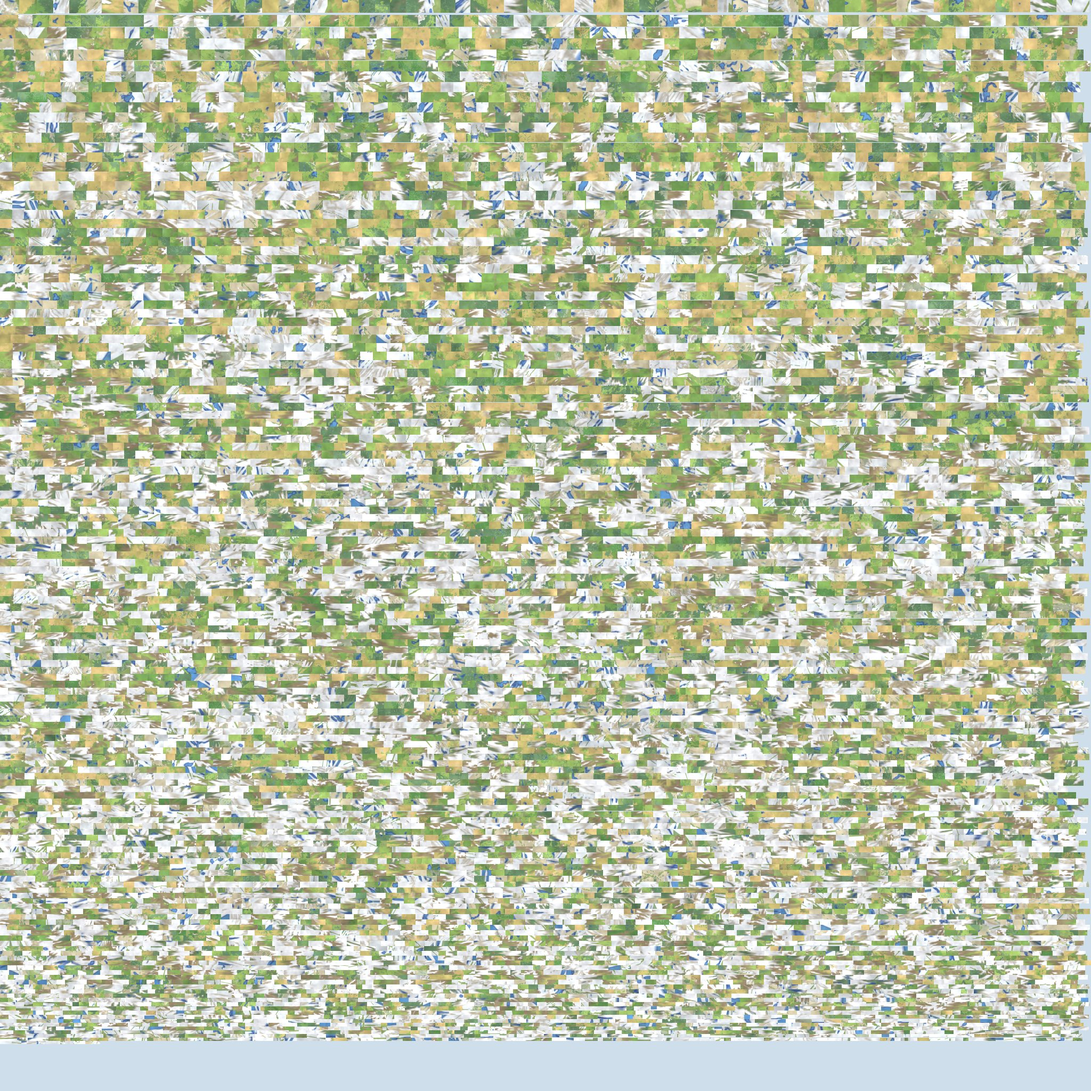
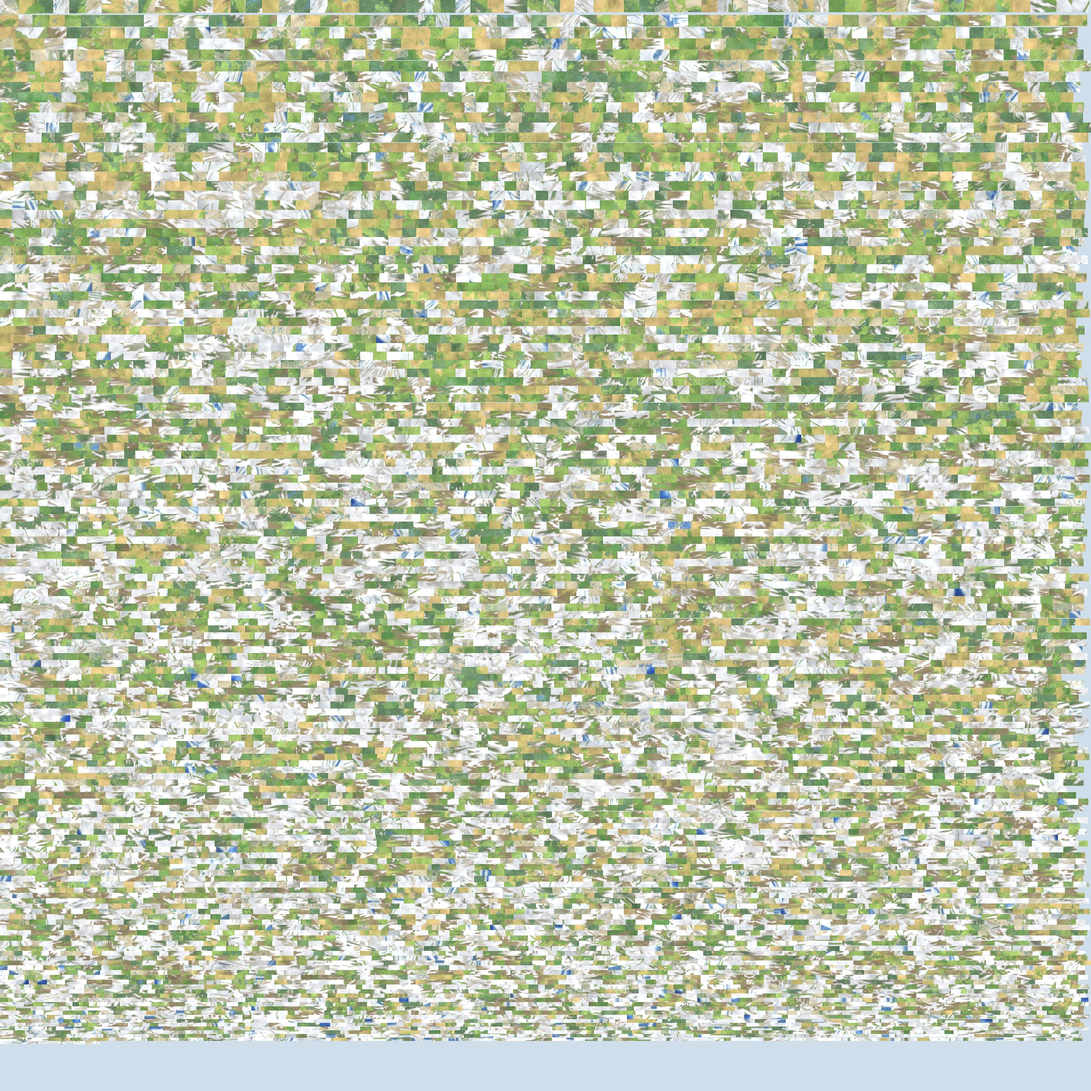
湖: 中は今の色・外周は薄く・小さい湖は目立たせず大きい湖だけ濃淡
Claude-Session: https://claude.ai/code/session_01NNF75WtqSrNc5QxPaYtfZJ

diff --git a/docs/apps/fantasy-war/mapstyle/tools/water_layer.py b/docs/apps/fantasy-war/mapstyle/tools/water_layer.py
@@ -63,19 +63,28 @@ def river_masks(g, W0, H0, shift, H, min_order=3, S=4, wet=None):
 
 def make(g, lake, land0, H, out, shift, seed=1, rivers_in_texture=False, min_order=int(__import__('os').environ.get('RIV_ORD', '4'))):
     H0, W0 = H.shape
-    lkz = cv2.GaussianBlur(lake.astype(np.float32), (0, 0), 1.5)
-    lki = np.clip(lkz * 1.6 - 0.25, 0, 1); ring = np.clip(1 - np.abs(lkz - 0.5) * 5, 0, 1)
+    lk = lake.astype(bool); lkz = cv2.GaussianBlur(lk.astype(np.float32), (0, 0), 1.5)
+    lki = np.clip(lkz * 1.6 - 0.25, 0, 1)
+    # 湖の見せ方(ユーザー指示 11-23 00:56): 中=今の色、外周は海と同様に薄く(浅い縁の淡い帯)。小さな湖は目立たせず、大きな湖だけ濃淡(縁が浅く中心が深い)で目立たせる
+    lab, nl = ndi.label(lk); area = np.bincount(lab.ravel(), minlength=nl + 1).astype(np.float32)
+    edt = ndi.distance_transform_edt(lk); maxd = np.maximum(np.asarray(ndi.maximum(edt, lab, np.arange(nl + 1)), np.float32), 1.0)
+    _, (iy, ix) = ndi.distance_transform_edt(~lk, return_indices=True); labn = lab[iy, ix]          # ぼかした縁も最寄りの湖に属させる
+    big = np.clip((area - 60.0) / (400.0 - 60.0), 0, 1)[labn]                                       # 0=小さい湖 1=大きい湖(面積の画素数)
+    depth = np.clip(edt / maxd[labn], 0, 1)
+    shore = np.exp(-np.maximum(edt, 0) / 1.6) * lk                                                  # 外周の浅い縁(淡い帯)
     if rivers_in_texture: ink, fill = river_masks(g, W0, H0, shift, H, min_order, wet=(~land0) | lake)
     else: ink = fill = np.zeros((H0, W0), np.float32)      # 川は絵にせず、3Dで地形に沿う帯にする(絵だと急な面で伸びる 11-22 21:45)
     ink *= (1 - lki); fill *= (1 - lki)
     rgb = np.zeros((H0, W0, 3), np.float32); a = np.zeros((H0, W0), np.float32)
-    rgb, a = over(rgb, a, (92, 150, 214), 0.94 * lki)
-    rgb, a = over(rgb, a, (34, 58, 140), 0.7 * ring * (lkz > 0.05))
+    rgb, a = over(rgb, a, (92, 150, 214), (0.40 + 0.55 * big) * lki)                                # 中=今の色(小さい湖は薄く)
+    deep = (depth ** 0.9) * big                                                                     # 大きい湖だけ、中心ほど濃い青
+    rgb, a = over(rgb, a, (34, 66, 160), 0.85 * deep * lki)
+    rgb, a = over(rgb, a, (205, 228, 242), (0.22 + 0.36 * big) * shore * lki)                       # 外周: 海の浅瀬のように淡く
     rgb, a = over(rgb, a, (70, 130, 175), 0.5 * ink)                     # 墨色のふち
     rgb, a = over(rgb, a, (110, 205, 245), 0.97 * fill)                  # 青の川筋
     O = np.dstack([rgb[..., ::-1], a * 255]).astype(np.uint8)       # BGRA
     cv2.imwrite(out, O)
-    return {'川の線の画素': int((fill > 0.3).sum()), '湖の画素': int((lki > 0.5).sum()), '最小の順位': min_order}
+    return {'川の線の画素': int((fill > 0.3).sum()), '湖の画素': int((lki > 0.5).sum()), '湖の数': int(nl), '大きい湖(>=400画素)': int((area[1:] >= 400).sum()), '最小の順位': min_order}
 
 
 def river_chains(g, W0, H0, shift, H, min_order, wet):

diff --git a/docs/apps/sekai-hex/design/STATE.md b/docs/apps/sekai-hex/design/STATE.md
@@ -206,6 +206,7 @@
 - 【指示 11-22 21:56 ユーザー】『完全でなくてもいい。擬似で。少しくらい伸びないと作れない。それより山の伸び率が大き過ぎる。全体の大きさと山の伸び率を比率で、適当な値を計算して山を伸ばしてほしい』。→ 計算(実測): 世界は周長8192km=横1400画素で1画素=約5.85km。球体PWGの最高峰は約8.2〜8.5km(海抜上位6%の境は約2km)=実寸の縮尺だと最高峰は約1.4画素で、ほぼ平ら。以前の3D表示は、標高の上位6%を境に二段で高さを割り当てていて、実寸の縮尺比で約60〜115倍に誇張していた(最高峰は約97画素=世界幅の7%、針のような山)。実寸の傾き(地図の画素の傾き)は中央0.008・90%点0.028・99%点0.049。誇張の倍率kを変えて面の伸び率を測った: k=10→90%点1.04倍/k=20→1.15倍/k=30→1.31倍(最高峰=世界幅の3%)・99%点1.7〜1.8倍。決定: 誇張30倍(山の高さ=実標高÷5.85km×30。陸の基準の高さは海面すれすれ=海岸の崖をなくした)。『少し伸びる』は許容として、面の9割が1.4倍以内に入る値。実施(pwg_sphere_convert.py。倍率は環境変数 FM_LP_EXAG、縮尺 FM_LP_KMPX): 3D表示の高さだけ置き換え(色・面の分け方は元のまま)、川の帯とアトラスも同じ高さで作り直し。結果(実測・球体2世界の面): 伸び率 中央2.6→1.07倍・90%点6.3→1.4倍・99%点11→2.6〜2.9倍。最高点の高さは約97→約34画素(基準の高さ込みで56〜61)。目視(PC画面): 針のような山が無くなり、山脈がなだらかな起伏になった。川の帯・絵が斜面で伸びない。エラー無し。限界: 倍率30は私が測って選んだ値でユーザー指定でない(もっと高くしたければ倍率を上げる。45で90%点約1.6倍)/高さの基準を変えたため、海面すれすれの低地は平らに見える/川の帯は急な所で短く途切れる/PWG5の5世界は元の標高が無く未反映(旧の高さのまま)/iPhone未測定。次の一手: 山の高さの好みを見て、倍率を決める(上げる/このまま)。
 - 【指摘・指示 11-22 22:01 ユーザー】『自然な地図の山なんて望んでいない。多少の強調は必要。強調の基準はハブに書いたよね。ハブから外れている。また、川の数が多すぎる。川も山も特徴的なのだけを選んで強調して書くんだよ』。→ 認める(私の落ち度): 21:56の『実寸の縮尺×誇張30倍』は、ハブの確定済みの基準(カード6A『地形には特出する地形があり、絵はそれをいろいろな形で示す=デフォルメ=特徴を選んで強調』・カード6E『ゆるい3D+強調は高い山が集まる所だけ』・平均してならすのは失敗)を確かめずに、自分で自然さの基準を作ったもので、基準違反。21:56の誇張30倍は取り下げ(置き換え済み)。実施: ①山=カード6E(mapstyle40)の基準に戻した: 全体はゆるい3D(強さ0.535)・高い山が集まる所だけ強調(0.775、集まりのしきい値0.17)・低地の面は粗く山は細かく・山の縁は中間の細かさ(FM_LP_GENTLE=1 BASE=0.535 EMPH=0.775 D0=0.17 SP=1.3 RING=1)。pwg_sphere_convert.py の既定にした。②川=特徴的なものだけ選ぶ: 流域の最大の順位が6以上の大河の系統だけ、その中の順位5以上を描く(旧: 順位4以上の全部)。幅を太め(旧の1.4倍)に強調。結果(実測): 川の連なり 約1,070→124(seed31)・1,090→134(seed32)、頂点 2.0万→0.4万。山の面は12,120・10,155、面の伸び率は中央1.26〜1.30倍・90%点約3倍・99%点約5倍(強調域の山は伸びる=ユーザー『少し伸びてよい』の範囲と解釈)、最高点は約67画素(旧: 97画素の針→21:56の56画素の平坦)。目視(PC画面・全体と近づき): 山脈が強調された尖った峰として見え、低地はゆるく、川は少数の大河が山から低地・海へ流れる。限界: 川は大河中心で、小さな島(西の島)や湖の周りでは川がほぼ無い/大河の選び方(最大順位6以上・描く順位5以上)は私の初期値(RIV_BASIN・RIV_ORD で変える。順位4で約3倍に増える)/山の強調の強さはmapstyle40の値のまま(ユーザー評価済みの値)で、3D表示の高さ倍率(1.1)は未調整/PWG5の5世界は未反映/iPhone未測定。次の一手: 球体の世界に森を足す(強調して選んだ場所に)。
 - 【指示 11-22 22:11 ユーザー(参考画像: 光る川のファンタジー地図)】『水色すぎる。こんな感じで光らせても濃い色も混じるんだよ。濃い色と水色を混ぜて』。→ 実施: 川の色を『光る水色の芯+縁と所々に濃い青』にした。川の帯に絵(模様)を貼る形にし(world3d.html の rivTex)、幅方向=芯が明るい水色(150,228,255)で縁ほど濃い青(28,52,150)、長さ方向=濃淡のむら(芯が水色〜青(45,95,205)の間で変わる、周期は川の長さ約60ごと)。湖も、水色一色をやめ青寄り(92,150,214)・縁を濃い青(34,58,140)に。結果(目視・PC画面の近づいた3D): 川は明るい芯と濃い縁で光るように見え、所々青が濃くなる。限界: 色の配合・濃淡の周期は私の初期値/『光る』(ぼんやり発光・川の周りの滲み)は未実装で、色の濃淡のみ/湖は川より濃く見える/参考画像の紫の混じり・稲妻状の細い光は未対応/iPhone未測定。次の一手: 色の濃淡を見て調整点を一言、または球体の世界に森を足す。
+- 【指示 11-23 00:56 ユーザー】『湖の中を今の色にして外周を海と同様に薄く描くとそれらしく見える。小さな湖はあまり目立たせない。大きな湖だけ濃淡をつけて目立たせる』。→ 実施: 湖の中は今の青、外周に海と同じ薄い縁(浅瀬色)を足し、濃い縁取りは廃止。湖の大きさで見え方を変えた(小さい湖=かなり淡い、大きい湖=中心ほど濃い青+薄い縁)。実測: 湖の数 1678/1613(球体2世界)、大きい湖(400画素以上)4/3、湖の画素 10142/9461。目視(湖の絵の切り出し): 大きい湖は中心が濃く縁が淡い、小さい湖はほぼ目立たない。3Dでの大湖の近接は未確認。限界: 大きい湖の基準(400画素)・淡さは私の初期値/中くらいの湖(60〜400画素)の見え方は未調整/iPhone未測定。次の一手: 球体の世界に森を足す。
 
 ## カード15 制作プロトコル(超基礎概念)と、このプロジェクトの作業フロー【確定(ユーザー指示 11-21)+案】
 - 適用範囲: このプロジェクト(ファンタジー世界戦争=世界ハニカム、docs/apps/fantasy-war と sekai-hex)だけ。他のアプリには適用しない。

diff --git a/docs/apps/sekai-hex/design/cards/c06g.md b/docs/apps/sekai-hex/design/cards/c06g.md
@@ -101,3 +101,4 @@
 - 【指示 11-22 21:56 ユーザー】『完全でなくてもいい。擬似で。少しくらい伸びないと作れない。それより山の伸び率が大き過ぎる。全体の大きさと山の伸び率を比率で、適当な値を計算して山を伸ばしてほしい』。→ 計算(実測): 世界は周長8192km=横1400画素で1画素=約5.85km。球体PWGの最高峰は約8.2〜8.5km(海抜上位6%の境は約2km)=実寸の縮尺だと最高峰は約1.4画素で、ほぼ平ら。以前の3D表示は、標高の上位6%を境に二段で高さを割り当てていて、実寸の縮尺比で約60〜115倍に誇張していた(最高峰は約97画素=世界幅の7%、針のような山)。実寸の傾き(地図の画素の傾き)は中央0.008・90%点0.028・99%点0.049。誇張の倍率kを変えて面の伸び率を測った: k=10→90%点1.04倍/k=20→1.15倍/k=30→1.31倍(最高峰=世界幅の3%)・99%点1.7〜1.8倍。決定: 誇張30倍(山の高さ=実標高÷5.85km×30。陸の基準の高さは海面すれすれ=海岸の崖をなくした)。『少し伸びる』は許容として、面の9割が1.4倍以内に入る値。実施(pwg_sphere_convert.py。倍率は環境変数 FM_LP_EXAG、縮尺 FM_LP_KMPX): 3D表示の高さだけ置き換え(色・面の分け方は元のまま)、川の帯とアトラスも同じ高さで作り直し。結果(実測・球体2世界の面): 伸び率 中央2.6→1.07倍・90%点6.3→1.4倍・99%点11→2.6〜2.9倍。最高点の高さは約97→約34画素(基準の高さ込みで56〜61)。目視(PC画面): 針のような山が無くなり、山脈がなだらかな起伏になった。川の帯・絵が斜面で伸びない。エラー無し。限界: 倍率30は私が測って選んだ値でユーザー指定でない(もっと高くしたければ倍率を上げる。45で90%点約1.6倍)/高さの基準を変えたため、海面すれすれの低地は平らに見える/川の帯は急な所で短く途切れる/PWG5の5世界は元の標高が無く未反映(旧の高さのまま)/iPhone未測定。次の一手: 山の高さの好みを見て、倍率を決める(上げる/このまま)。
 - 【指摘・指示 11-22 22:01 ユーザー】『自然な地図の山なんて望んでいない。多少の強調は必要。強調の基準はハブに書いたよね。ハブから外れている。また、川の数が多すぎる。川も山も特徴的なのだけを選んで強調して書くんだよ』。→ 認める(私の落ち度): 21:56の『実寸の縮尺×誇張30倍』は、ハブの確定済みの基準(カード6A『地形には特出する地形があり、絵はそれをいろいろな形で示す=デフォルメ=特徴を選んで強調』・カード6E『ゆるい3D+強調は高い山が集まる所だけ』・平均してならすのは失敗)を確かめずに、自分で自然さの基準を作ったもので、基準違反。21:56の誇張30倍は取り下げ(置き換え済み)。実施: ①山=カード6E(mapstyle40)の基準に戻した: 全体はゆるい3D(強さ0.535)・高い山が集まる所だけ強調(0.775、集まりのしきい値0.17)・低地の面は粗く山は細かく・山の縁は中間の細かさ(FM_LP_GENTLE=1 BASE=0.535 EMPH=0.775 D0=0.17 SP=1.3 RING=1)。pwg_sphere_convert.py の既定にした。②川=特徴的なものだけ選ぶ: 流域の最大の順位が6以上の大河の系統だけ、その中の順位5以上を描く(旧: 順位4以上の全部)。幅を太め(旧の1.4倍)に強調。結果(実測): 川の連なり 約1,070→124(seed31)・1,090→134(seed32)、頂点 2.0万→0.4万。山の面は12,120・10,155、面の伸び率は中央1.26〜1.30倍・90%点約3倍・99%点約5倍(強調域の山は伸びる=ユーザー『少し伸びてよい』の範囲と解釈)、最高点は約67画素(旧: 97画素の針→21:56の56画素の平坦)。目視(PC画面・全体と近づき): 山脈が強調された尖った峰として見え、低地はゆるく、川は少数の大河が山から低地・海へ流れる。限界: 川は大河中心で、小さな島(西の島)や湖の周りでは川がほぼ無い/大河の選び方(最大順位6以上・描く順位5以上)は私の初期値(RIV_BASIN・RIV_ORD で変える。順位4で約3倍に増える)/山の強調の強さはmapstyle40の値のまま(ユーザー評価済みの値)で、3D表示の高さ倍率(1.1)は未調整/PWG5の5世界は未反映/iPhone未測定。次の一手: 球体の世界に森を足す(強調して選んだ場所に)。
 - 【指示 11-22 22:11 ユーザー(参考画像: 光る川のファンタジー地図)】『水色すぎる。こんな感じで光らせても濃い色も混じるんだよ。濃い色と水色を混ぜて』。→ 実施: 川の色を『光る水色の芯+縁と所々に濃い青』にした。川の帯に絵(模様)を貼る形にし(world3d.html の rivTex)、幅方向=芯が明るい水色(150,228,255)で縁ほど濃い青(28,52,150)、長さ方向=濃淡のむら(芯が水色〜青(45,95,205)の間で変わる、周期は川の長さ約60ごと)。湖も、水色一色をやめ青寄り(92,150,214)・縁を濃い青(34,58,140)に。結果(目視・PC画面の近づいた3D): 川は明るい芯と濃い縁で光るように見え、所々青が濃くなる。限界: 色の配合・濃淡の周期は私の初期値/『光る』(ぼんやり発光・川の周りの滲み)は未実装で、色の濃淡のみ/湖は川より濃く見える/参考画像の紫の混じり・稲妻状の細い光は未対応/iPhone未測定。次の一手: 色の濃淡を見て調整点を一言、または球体の世界に森を足す。
+- 【指示 11-23 00:56 ユーザー】『湖の中を今の色にして外周を海と同様に薄く描くとそれらしく見える。小さな湖はあまり目立たせない。大きな湖だけ濃淡をつけて目立たせる』。→ 実施: 湖の中は今の青、外周に海と同じ薄い縁(浅瀬色)を足し、濃い縁取りは廃止。湖の大きさで見え方を変えた(小さい湖=かなり淡い、大きい湖=中心ほど濃い青+薄い縁)。実測: 湖の数 1678/1613(球体2世界)、大きい湖(400画素以上)4/3、湖の画素 10142/9461。目視(湖の絵の切り出し): 大きい湖は中心が濃く縁が淡い、小さい湖はほぼ目立たない。3Dでの大湖の近接は未確認。限界: 大きい湖の基準(400画素)・淡さは私の初期値/中くらいの湖(60〜400画素)の見え方は未調整/iPhone未測定。次の一手: 球体の世界に森を足す。
